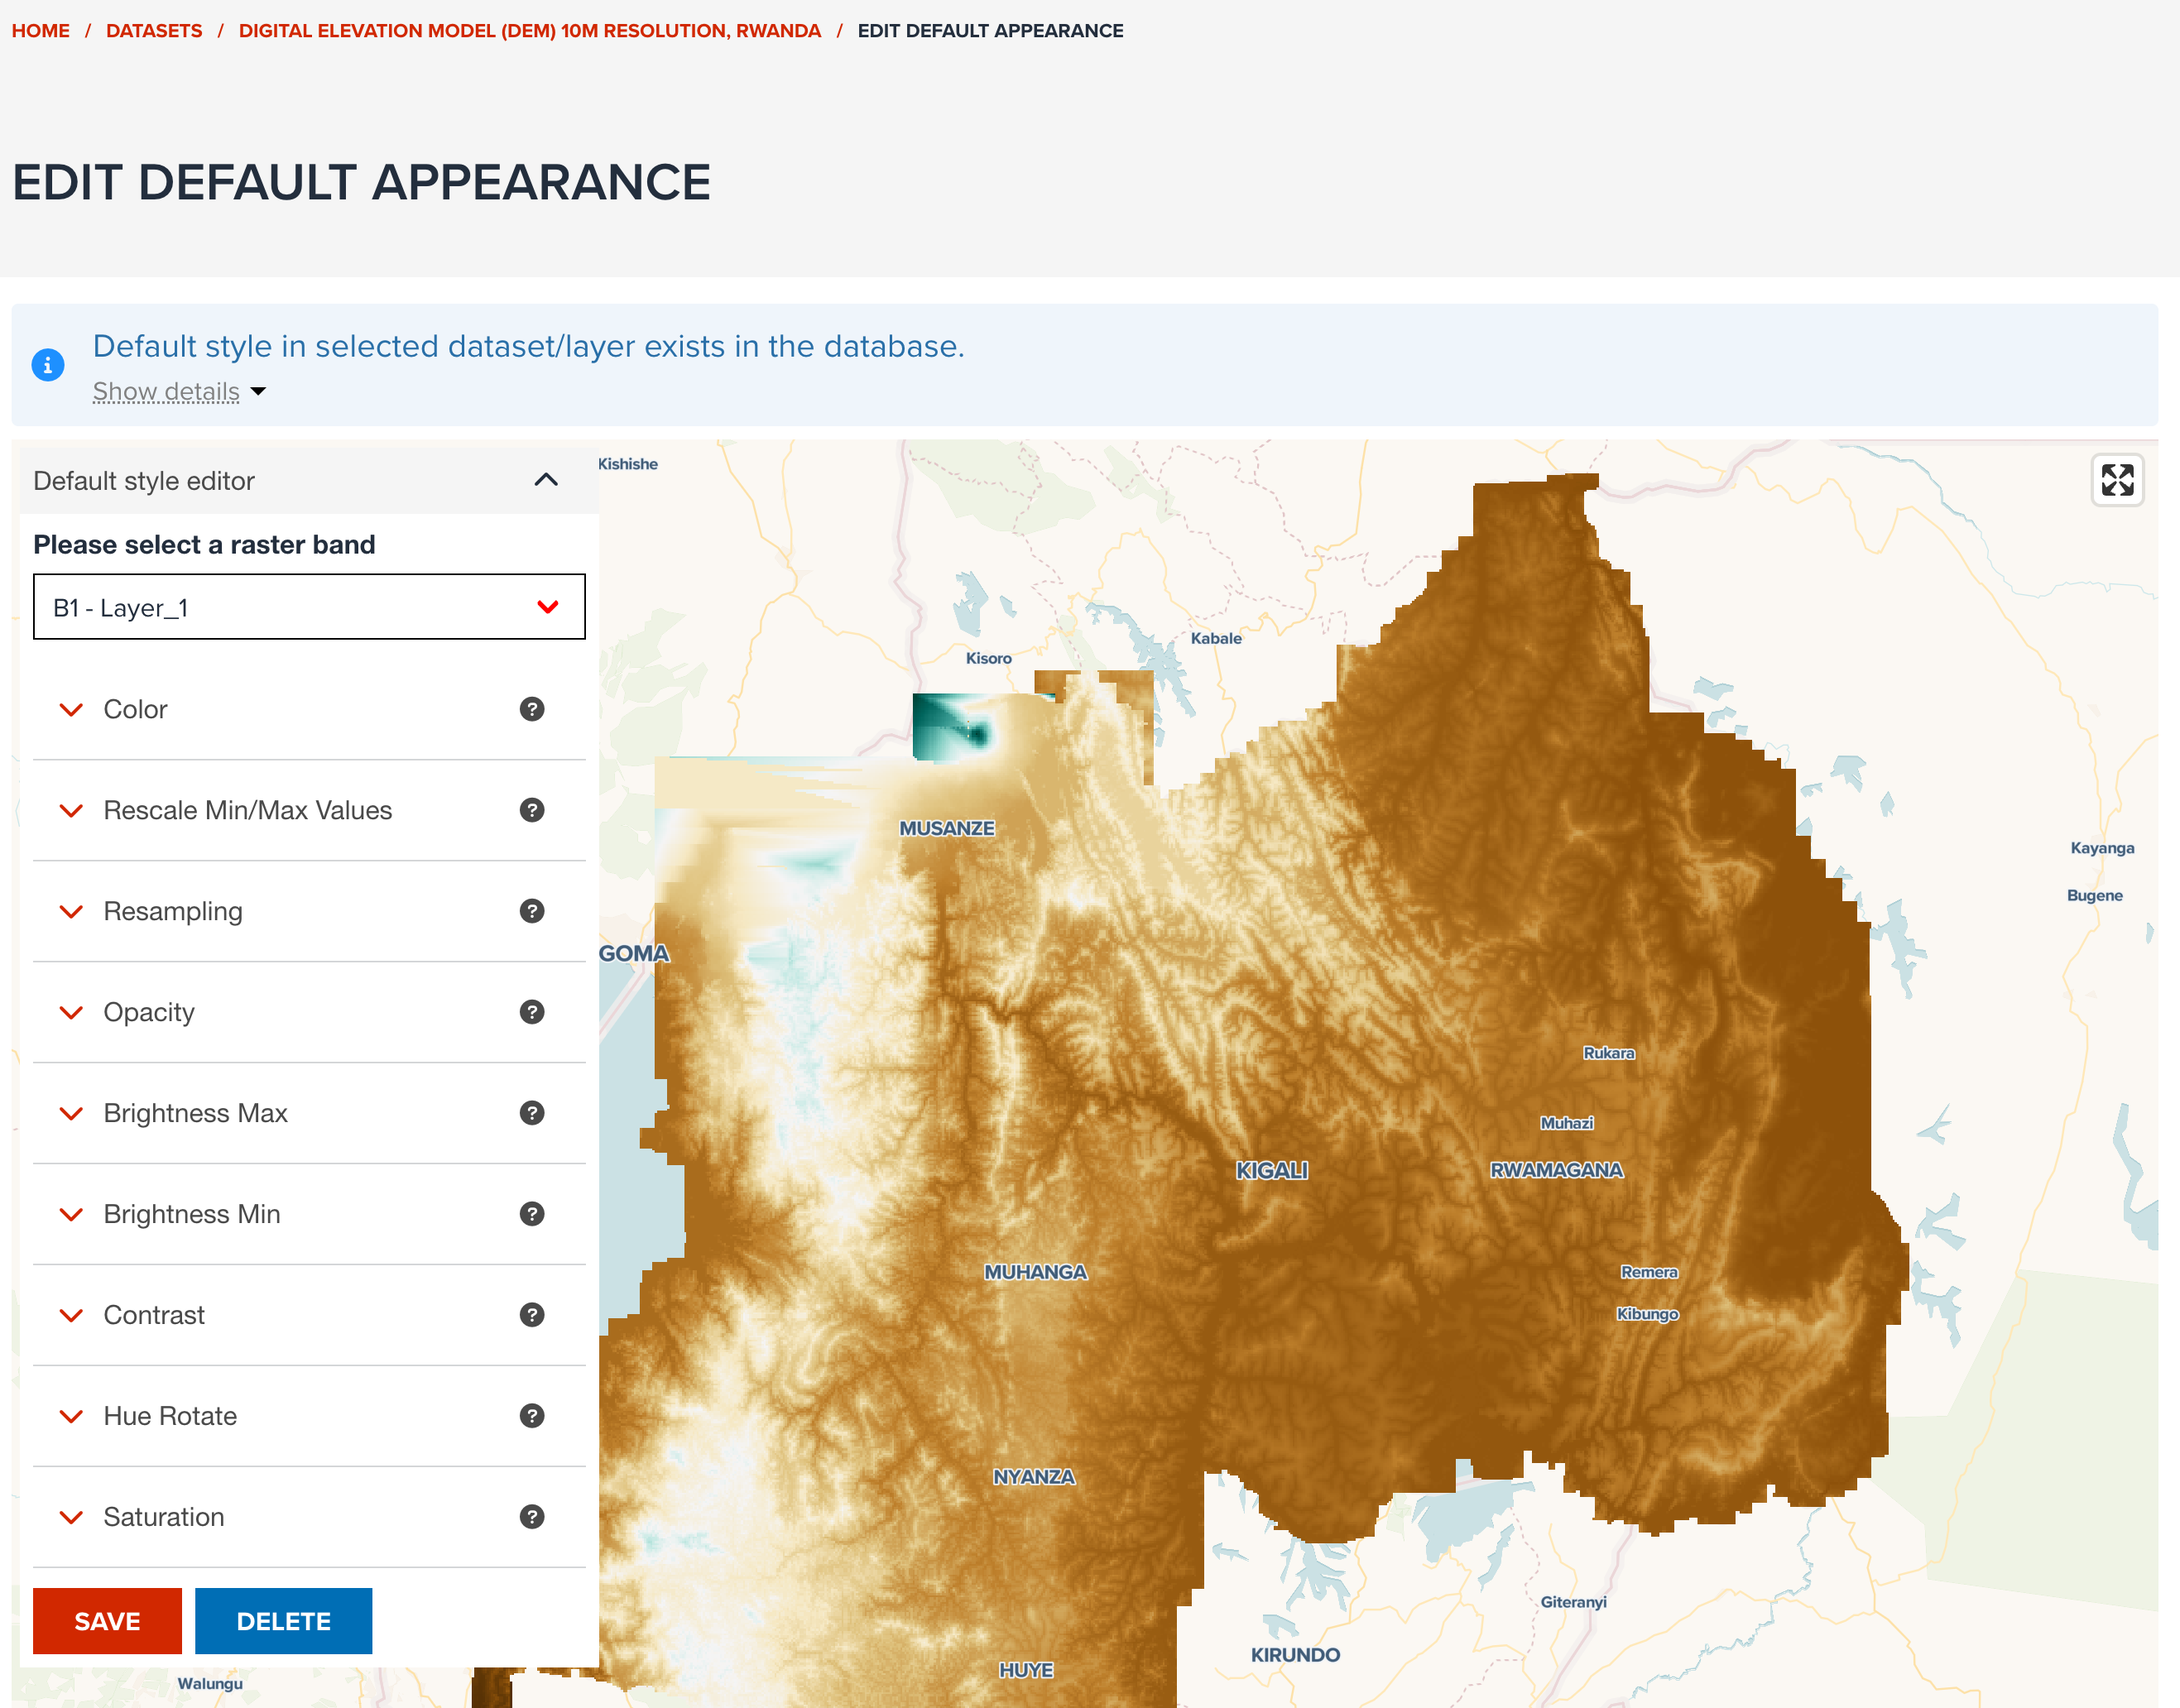
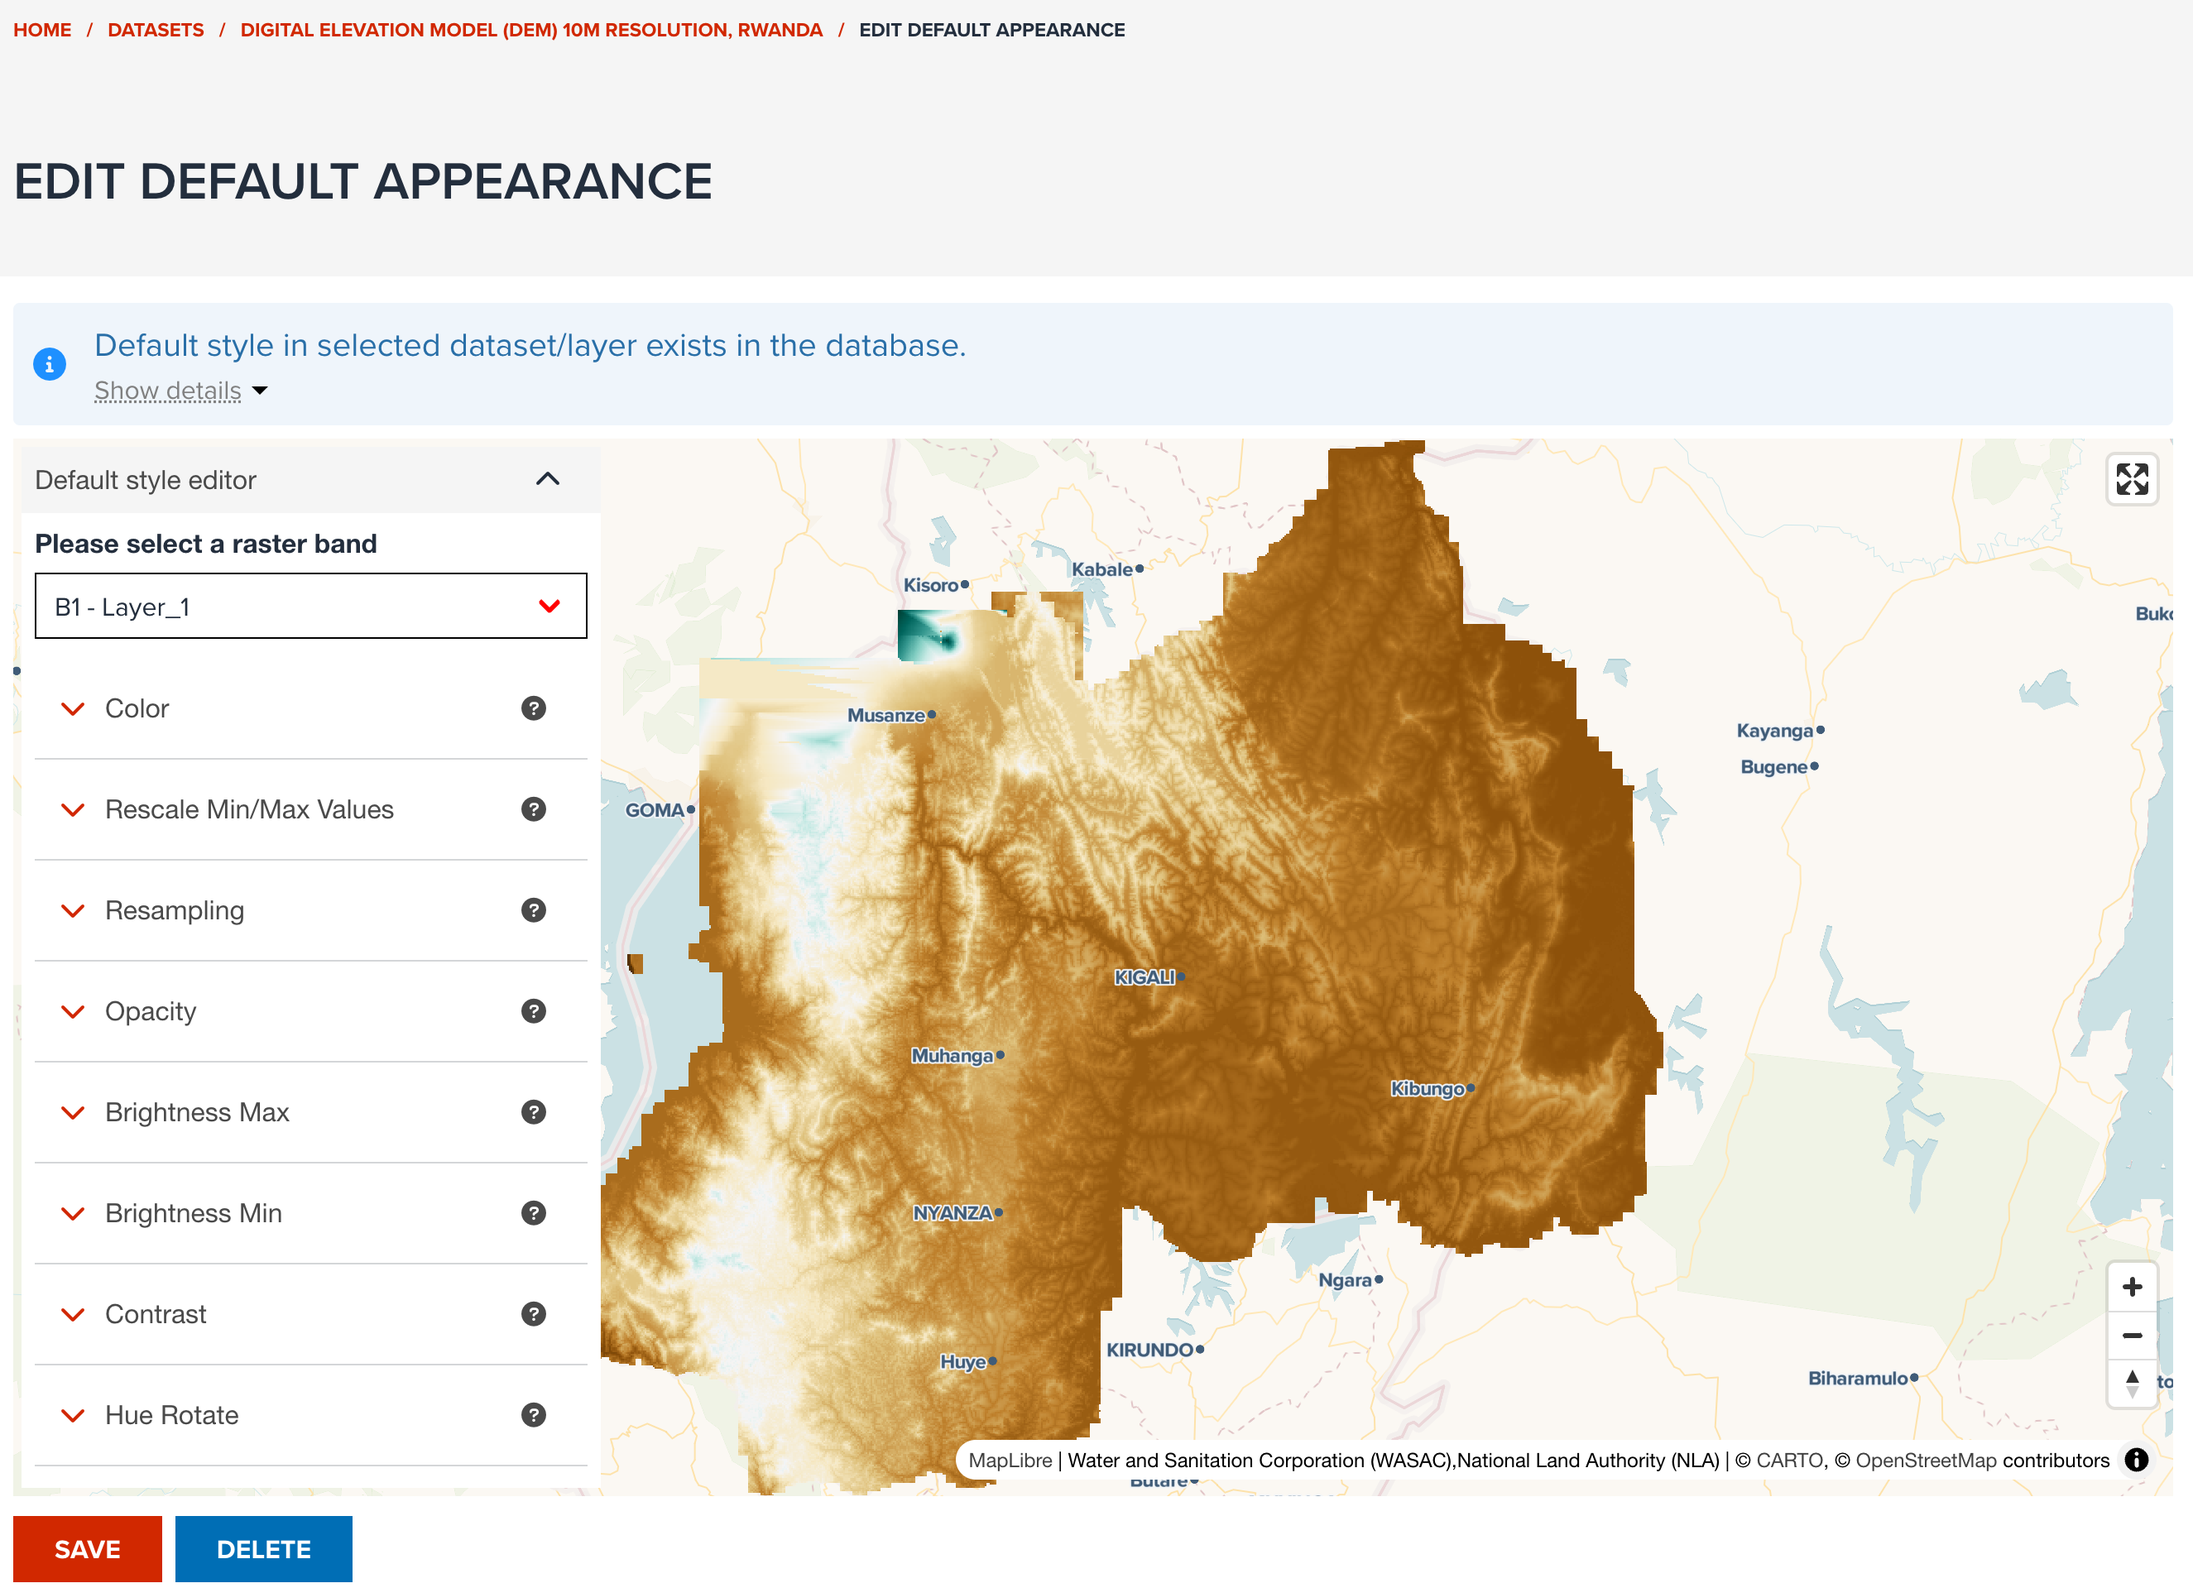
doc: added raster transform. repalced screenshot of default style editor

diff --git a/documentation/docs/visualization/visualize_raster.md b/documentation/docs/visualization/visualize_raster.md
@@ -131,7 +131,60 @@ It is worth to check how the data distribution looks like in case the default vi
 
 ## Transform tab (Advanced)
 
-Content is coming soon
+The **raster transform tab** provides an ability to filter the data in a different way of rescaling. Here, we use _Digital Elevation Model (DEM) 10m resolution, Rwanda_ dataset as an example to show each step how you can transform it.
+
+- Click **Add** button under **TRANSFORM** tab
+
+Open a layer editor panel, move to the **TRASFORM** tab, then click **ADD** button.
+
+<figure markdown="span">
+  ![visualize_raster_transform_1.png](../assets/visualization/visualize_raster_transform_1.png)
+  <figcaption>Click Add button at TRANSFORM tab to start adding new filter rule</figcaption>
+</figure>
+
+- Select a math operator for filtering.
+
+Firstly, you will be asked to select a mathmatics operator.
+
+<figure markdown="span">
+  ![visualize_raster_transform_2.png](../assets/visualization/visualize_raster_transform_2.png)
+  <figcaption>Select an operator for filtering value</figcaption>
+</figure>
+
+the following operators are available for raster transform.
+
+- `=`: Equals. Only show pixels which exactly matched threshold
+- `≠`: Differs. Show pixels except exactly matched to threshold.
+- `>`: Larger than. Show pixels which have greather than threshold value.
+- `<`: Smaller than. Show pixels which have less than threshold value.
+- `>=`: Larger than or equal to. Show pixels which have greater than or equal to threshold value.
+- `<=`: Smaller than or equal to. Show pixels which have less than or equal to threshold value.
+
+Here, we select `< (less than)` operator.
+
+- Select a threahold and apply filter
+
+Then, select a threshold and click **APPLY** button to apply new filtering rule for a raster dataset.
+
+<figure markdown="span">
+  ![visualize_raster_transform_3.png](../assets/visualization/visualize_raster_transform_3.png)
+  <figcaption>Select a threshold which is applied for filtering together with the operator you selected in last step</figcaption>
+</figure>
+
+!!! note
+
+    You can use a slider to roughly move it to the place which you disire to filter. Then, use `←` or `→` button in your keyboard to adjust the threshold precisely.
+
+- The result after transforming
+
+The following figure shows the result after applying the rule which the first band value is less than or equal to 1999m. If you compare the screenshot before applying a filter, you can clearly see what the difference is.
+
+<figure markdown="span">
+  ![visualize_raster_transform_4.png](../assets/visualization/visualize_raster_transform_4.png)
+  <figcaption>After applying a filter rule in a raster data layer</figcaption>
+</figure>
+
+This raster transform can retain the original colormap and rescale settings after adding new transform rule. In this example, the pixels which have altitude is less than 2000 use the same color ramp with before. But pixels more than 1999m altitude shows dark brown color.
 
 ## Next step
 
